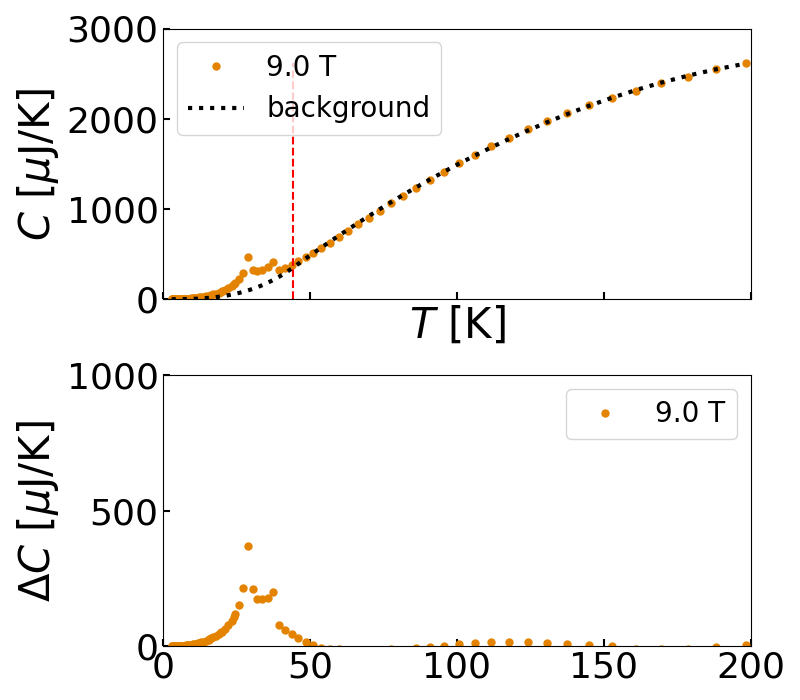
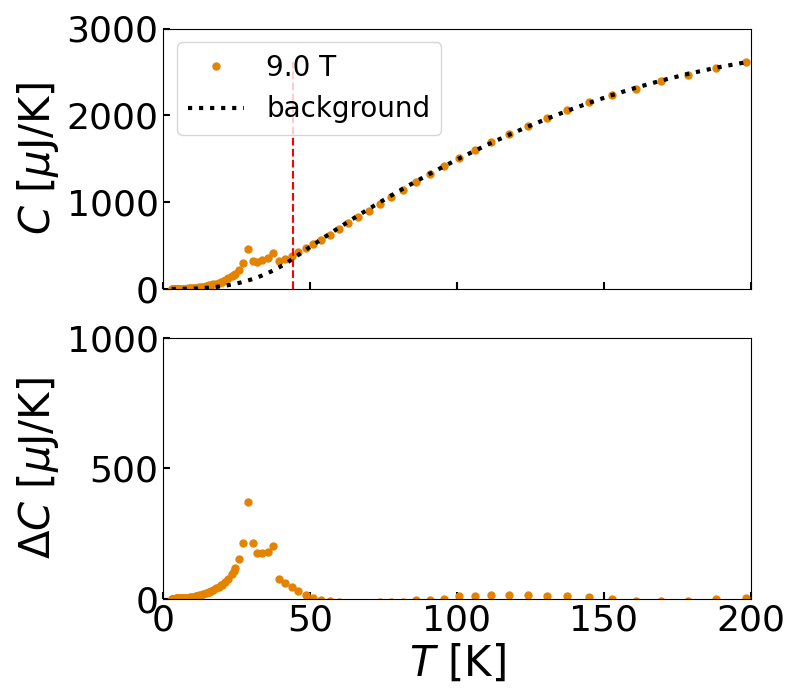
fit

diff --git a/utils/magnetic_peak.py b/utils/magnetic_peak.py
@@ -1,51 +1,76 @@
+import os
 import numpy as np
+import matplotlib as mpl
 import matplotlib.pyplot as plt
 
-# def cutoff_log(x, *ps):
-#     A = ps[0]
-#     x_c = ps[1]
-#     x_r = x - x_c
-#     x_rp = x_r[x_r > 0]
-#     out = np.zeros(x.shape)
-#     out[x_r > 0] = A*np.log(x_rp)
-#     return out
+from scipy.optimize import leastsq
 
-# def flip_cutoff_log(x, *ps):
-#     A = ps[0]
-#     x_c = ps[1]
-#     B = ps[2]
-#     x_r = x - x_c
-#     x_rn = x_r[x_r < 0]
-#     out = np.zeros(x.shape)
-#     out[x_r < 0] = A*np.log(-x_rn)+B
-#     return out
+inf = np.inf
 
-# def cutoff_poly(x, *ps):
-#     x_c = ps[-1]
-#     out = np.zeros(x.shape)
-#     for i in range(len(ps[:-1])):
-#         out[x < x_c] += ps[i] * x[x < x_c] ** i
-#     return out
+def lowTpoly(x, *ps):
+    return ps[0] * x ** (3/2) + ps[1] * x ** 3
 
-# x = np.arange(0, 10, 0.01)
+def dlowTpoly(x, *ps):
+    return 1.5 * ps[0] * x ** (1/2) + 3 * ps[1] * x ** 2
 
-# plt.figure()
-# plt.plot(x, cutoff_poly(x, 0.1, 0.2, 0.3, 0.4, 5))
-# plt.plot(x, flip_cutoff_log(x, -10, 5, 10))
-# plt.plot(x, cutoff_poly(x, 0.1, 0.2, 0.3, 0.4, 5) + flip_cutoff_log(x, -10, 5, 10), '.')
-# plt.show()
-
-def poly(x, *ps):
-    out = 0
-    for i in range(len(ps)):
-        out += ps[i] * x ** i
+def singularity(x, *ps):
+    x_c = ps[2]
+    out = np.zeros(x.shape)
+    out[x < x_c] = ps[0] * np.log(x_c - x[x < x_c]) + ps[1]
+    out[x > x_c] = ps[3] * np.log(x[x > x_c] - x_c) + ps[4]
     return out
 
-def dpoly(x, *ps):
-    out = 0
-    for i in range(len(ps)):
-        if i == 0:
-            continue
-        else:
-            out += i * ps[i] * x ** (i - 1)
+def magnetic(x, *xpspss):
+    dx_p = xpspss[0]
+    cps = xpspss[1:3]
+    lps = xpspss[3:]
+
+    x_p = lps[0] + dx_p
+
+    fnb = 0
+    dfnb = 0
+    out = (x <= x_p) * lowTpoly(x, *cps)
+
+    fnb = lowTpoly(x_p, *cps)
+    dfnb = dlowTpoly(x_p, *cps)
+    if lps[0] > x_p:
+        A = dfnb*(x_p - lps[0])
+        out += (x_p < x) * singularity(x, *np.concatenate([[A, fnb - A*np.log(lps[0] - x_p)], lps]))
+    elif lps[0] < x_p:
+        A = dfnb*(lps[0] - x_p)
+        out += (x_p < x) * singularity(x, *np.concatenate([[A, fnb - A*np.log(x_p - lps[0])], lps]))
     return out
+
+def residuals(xpspss, x, y, weight = 1):
+    res = y - magnetic(x, *xpspss)
+    penalize = (res < 0) #* (x > 30)
+    return res * (1 + (weight - 1) * penalize)
+
+def fit_magnetic(T, C, B, resu_dir):
+
+    colors = mpl.colormaps['gnuplot'](np.linspace(0.2, 0.8, 10))
+    p0     =  [  -10,   1,   1,  29,  -1,   1]
+
+    xpspss, _ = leastsq(residuals, x0 = p0, args=(T, C, 10))
+
+    fit_curve = magnetic(T, *xpspss)
+
+    f, ax = plt.subplots(2, 1, figsize = (8,7), sharex = True, height_ratios=[2, 1])
+
+    ax[0].plot(T, C, '.', color = colors[int(B)], linewidth = 3, markersize = 10, label = f'{B} T')
+    ax[0].plot(T, fit_curve, ':', color = 'k', linewidth = 3, markersize = 2, label = 'fit')
+    ax[0].vlines(xpspss[3] + xpspss[0], 0, np.max(C), linestyle = '--', color = 'r', linewidth = 3)
+    ax[0].vlines(xpspss[3], 0, np.max(C), linestyle = '--', color = 'b', linewidth = 1)
+    ax[0].tick_params(which = 'both', direction = 'in', top = False, right = False, length = 5, width = 1.5, labelsize = 26)
+    ax[0].set_ylabel(r'$\Delta C$ [$\mu$J/K]', fontsize = 30)
+    ax[0].legend(fontsize = 20)
+    
+
+    ax[1].plot(T, C-fit_curve, '.', color = colors[int(B)], linewidth = 3, markersize = 10, label = f'{B} T')
+    ax[1].tick_params(which = 'both', direction = 'in', top = False, right = False, length = 5, width = 1.5, labelsize = 26)
+    ax[1].set_ylabel(r'$\Delta\Delta C$ [$\mu$J/K]', fontsize = 30)
+    ax[1].set_xlabel(r'$T$ [K]', fontsize = 30)
+    f.tight_layout()
+    f.savefig(os.path.join(resu_dir, f'fit_{B}T.png'))
+    plt.show()
+    return xpspss

diff --git a/utils/background.py b/utils/background.py
@@ -61,7 +61,6 @@ def fit_subbg_pp(T, C, B, pp_power, ignore_T, resu_dir):
     ax[0].plot(T, bg, ':', color = 'k', linewidth = 3, markersize = 2, label = 'background')
     ax[0].vlines(xpspss[0], 0, np.max(C), linestyle = '--', color = 'r')
     ax[0].tick_params(which = 'both', direction = 'in', top = False, right = False, length = 5, width = 1.5, labelsize = 26)
-    ax[0].set_xlabel(r'$T$ [K]', fontsize = 30)
     ax[0].set_ylabel(r'$C$ [$\mu$J/K]', fontsize = 30)
     ax[0].set_xlim((0, 200))
     ax[0].set_ylim((0, 3000))
@@ -71,8 +70,8 @@ def fit_subbg_pp(T, C, B, pp_power, ignore_T, resu_dir):
     ax[1].plot(T, C - bg, '.', color = colors[int(B)], linewidth = 3, markersize = 10, label = f'{B} T')
     ax[1].tick_params(which = 'both', direction = 'in', top = False, right = False, length = 5, width = 1.5, labelsize = 26)
     ax[1].set_ylabel(r'$\Delta C$ [$\mu$J/K]', fontsize = 30)
+    ax[1].set_xlabel(r'$T$ [K]', fontsize = 30)
     ax[1].set_ylim((0, 1000))
-    ax[1].legend(fontsize = 20)
     f.tight_layout()
     f.savefig(os.path.join(resu_dir, f'subbg_pp_{B}T.png'))
     plt.close()

diff --git a/analysis.py b/analysis.py
@@ -6,6 +6,7 @@ import matplotlib.pyplot as plt
 import numpy as np
 
 from utils.background import fit_subbg_pp, lowTpieces_poly
+from utils.magnetic_peak import fit_magnetic
 
 filedir = './extracted_data/'
 resudir = './results/'
@@ -166,3 +167,17 @@ plt.legend(fontsize = 20)
 fig.tight_layout()
 plt.savefig(os.path.join(resudir, 'TvsdC_050K_log_log.png'))
 plt.close()
+
+for filepath in glob.glob(os.path.join(filedir, 'NiS2_@*'))[::-1]:
+    data = pd.read_pickle(filepath)
+    B = np.round(data[fields[0]].to_numpy()[0]/1e4, 0)
+    if B != 8.0:
+        continue
+    T = data[fields[1]].to_numpy()
+    C = data[fields[2]].to_numpy()
+    idx = np.argsort(T)
+    T = T[idx]
+    C = C[idx]
+    C_sub = C - lowTpieces_poly(T, *xpspss)
+    xpspsss = fit_magnetic(T, C_sub, B, resudir)
+    print(xpspsss)
